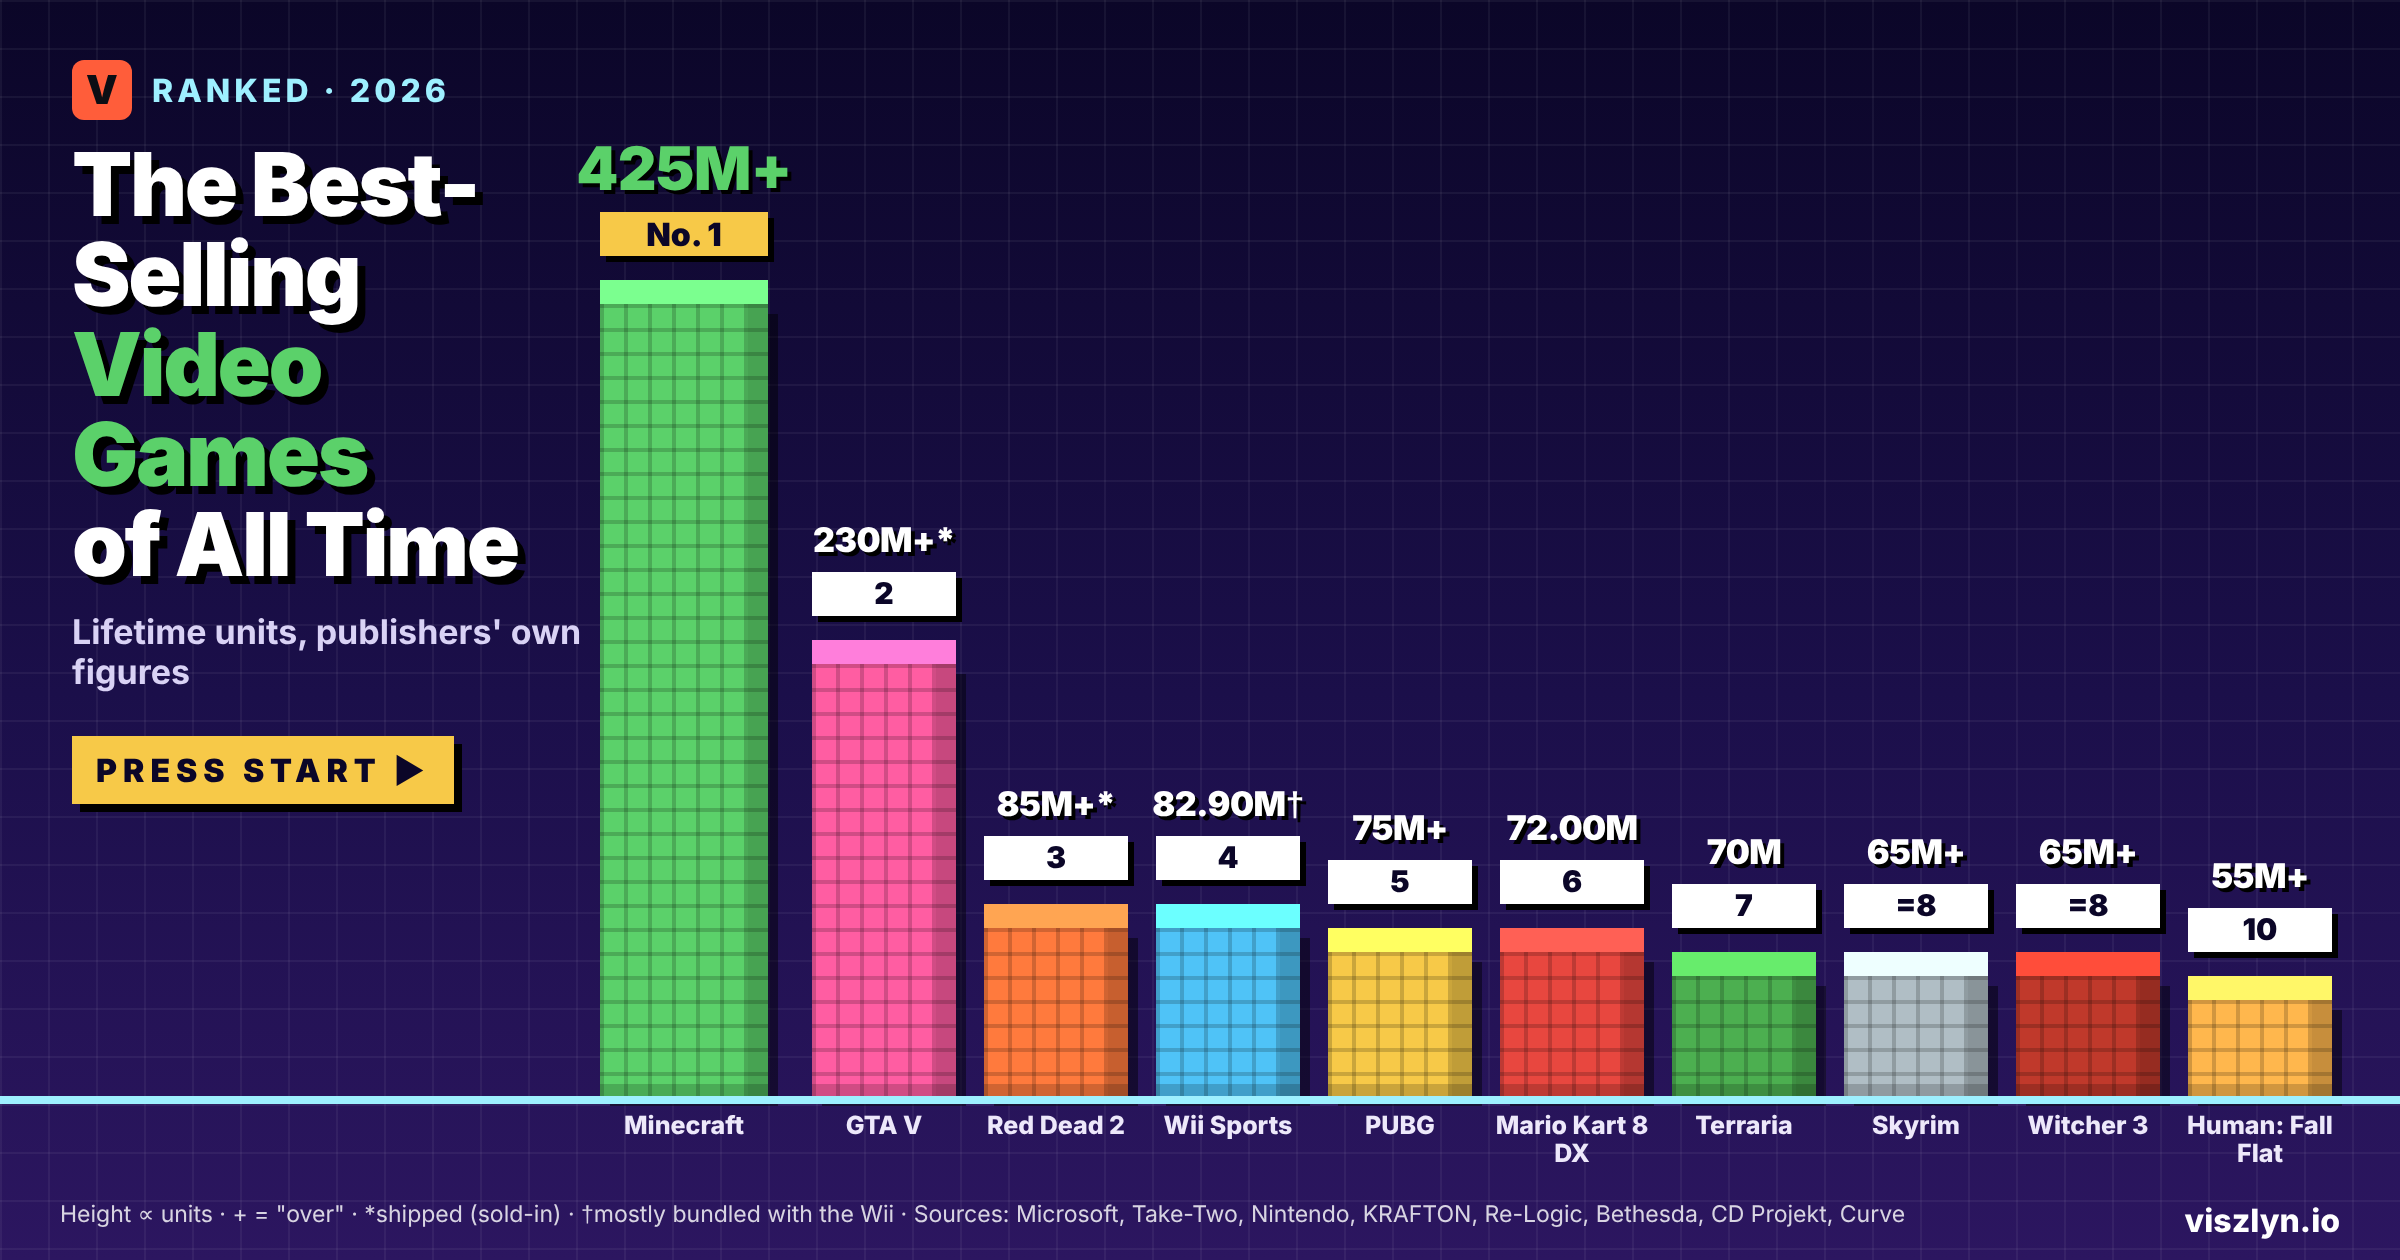
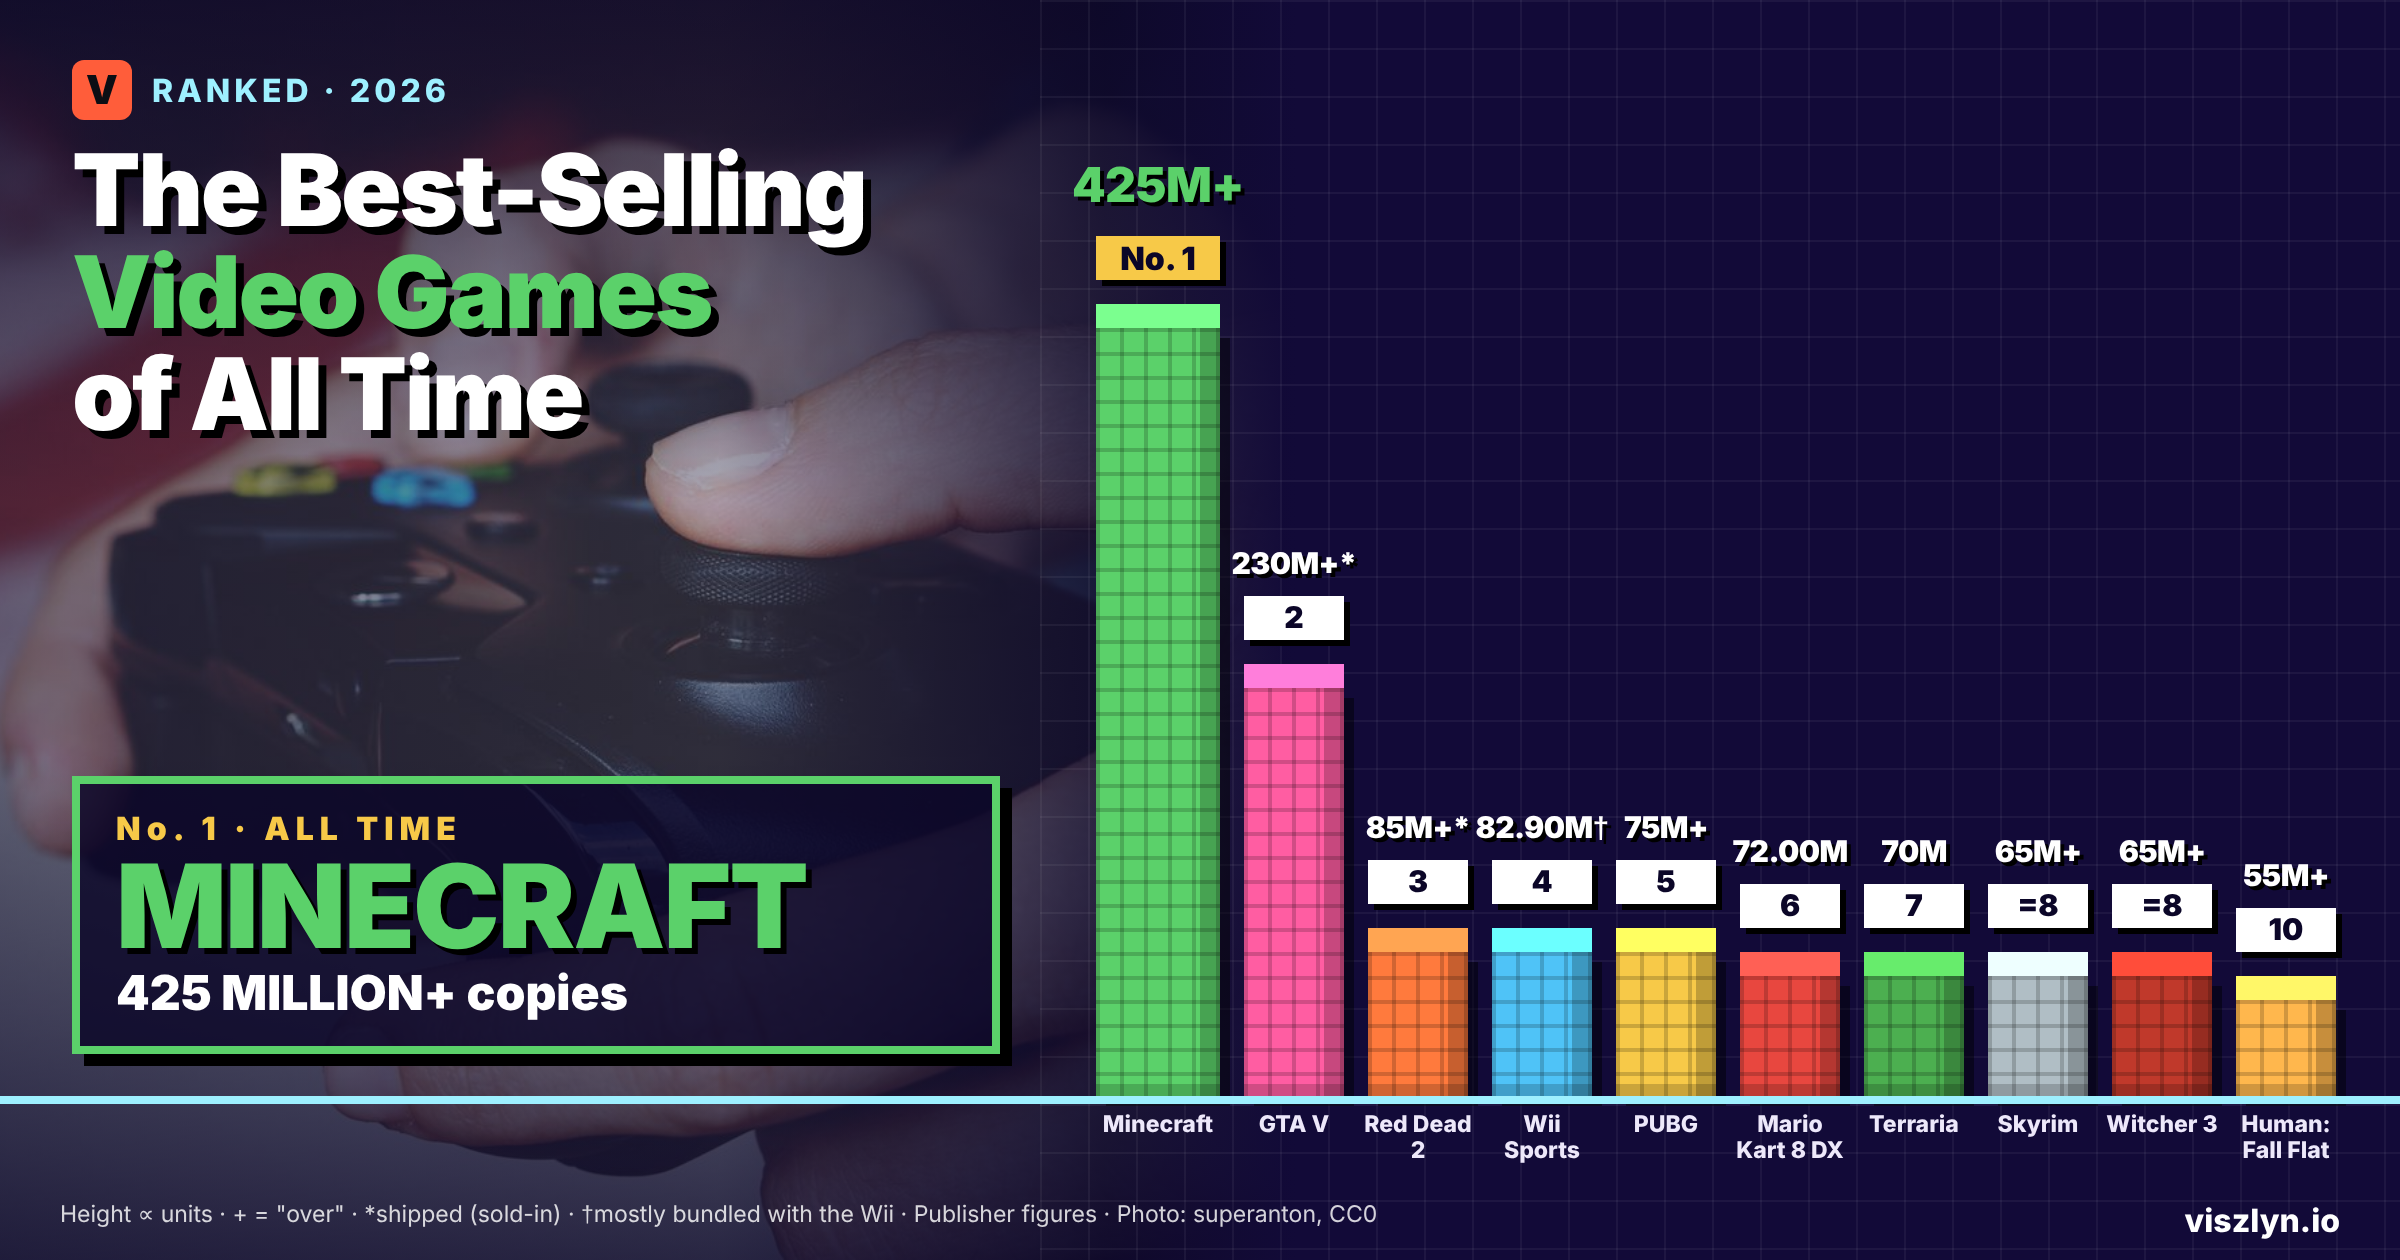
Games hero: real controller photo (CC0) and No. 1 Minecraft callout
Claude-Session: https://claude.ai/code/session_01Lx7Mnbsr2j6Zre36XCS9Kp

diff --git a/src/data/rankings/best-selling-video-games-2026.ts b/src/data/rankings/best-selling-video-games-2026.ts
@@ -25,7 +25,7 @@ export const bestSellingVideoGames2026: RankingArticle = {
   heroImage: {
     src: "/heroes/best-selling-video-games-2026.png",
     ogSrc: "/heroes/best-selling-video-games-2026-og.png",
-    alt: "Pixel-art towers showing the best-selling video games by lifetime units: Minecraft over 425 million, GTA V over 230 million shipped, Red Dead Redemption 2 over 85 million shipped, Wii Sports 82.90 million, PUBG over 75 million, Mario Kart 8 Deluxe 72.00 million, Terraria 70 million, Skyrim and The Witcher 3 over 65 million each, and Human: Fall Flat over 55 million.",
+    alt: "Pixel-art towers showing the best-selling video games by lifetime units: Minecraft over 425 million, GTA V over 230 million shipped, Red Dead Redemption 2 over 85 million shipped, Wii Sports 82.90 million, PUBG over 75 million, Mario Kart 8 Deluxe 72.00 million, Terraria 70 million, Skyrim and The Witcher 3 over 65 million each, and Human: Fall Flat over 55 million, beside a photo of hands holding a game controller and a callout naming Minecraft as No. 1.",
   },
 
   quickAnswer:
